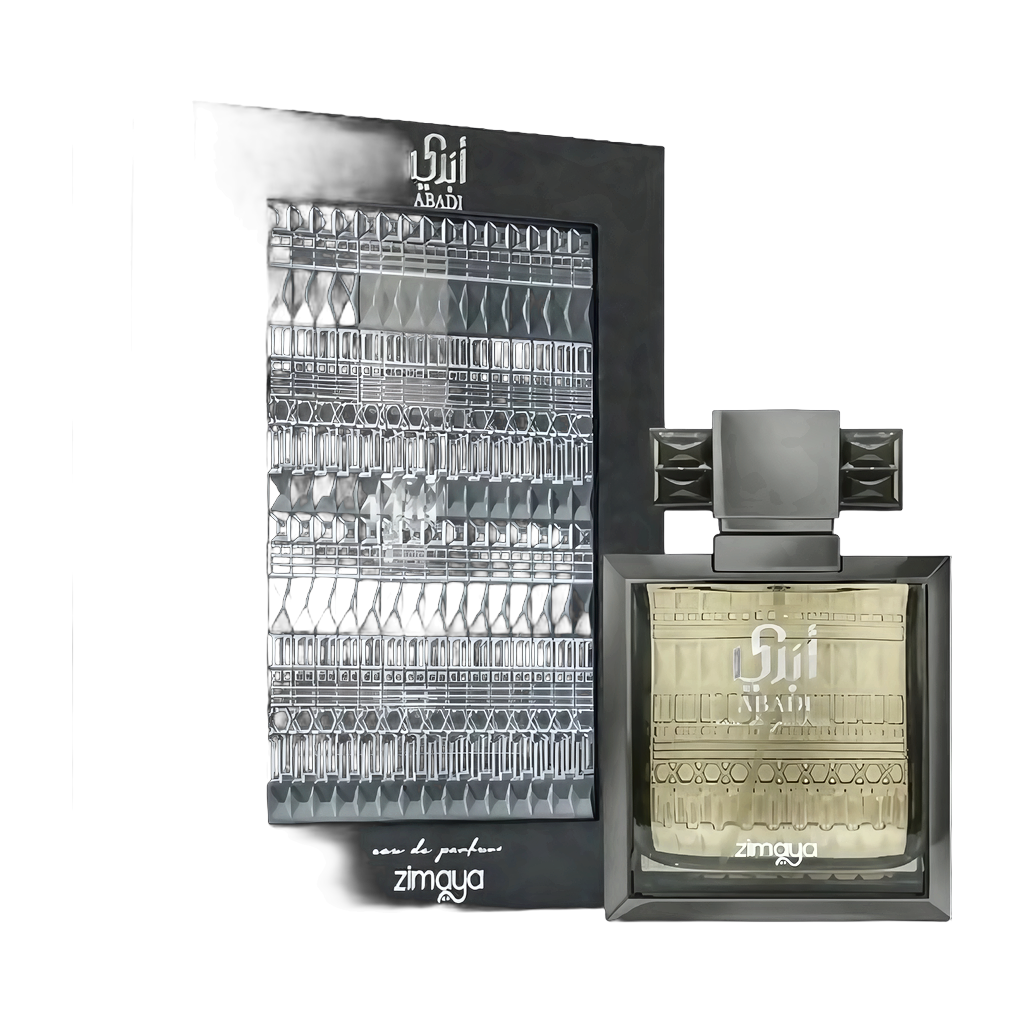
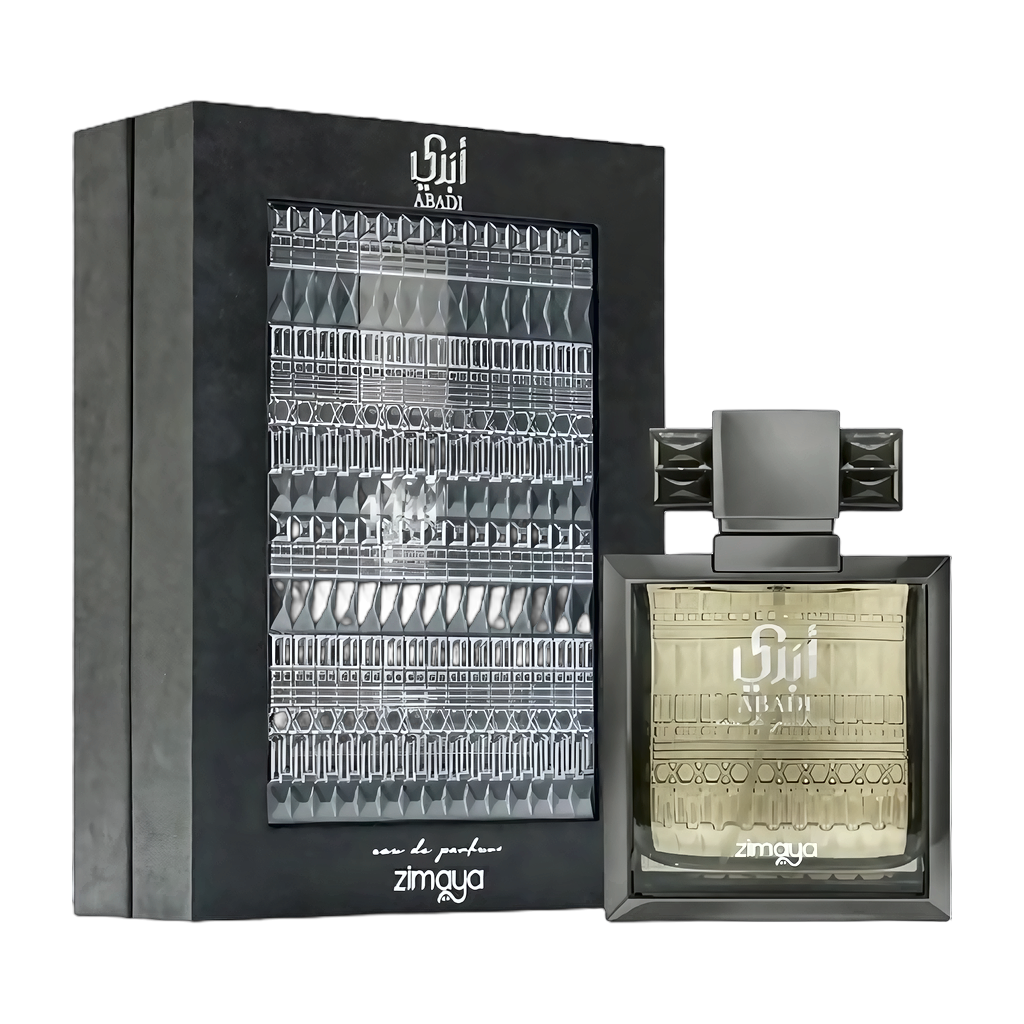
fix(pipeline): prevent missing parts via ground-truth mask ensemble and relaxed component filtering

Changed region(s): [[0.0625, 0.0938, 0.5938, 0.9062], [0.7188, 0.625, 0.75, 0.6562], [0.6562, 0.4688, 0.6875, 0.5]]

diff --git a/Al-Warda/scripts/generate_product_images.py b/Al-Warda/scripts/generate_product_images.py
@@ -461,9 +461,9 @@ def run_onnx_u2net_segmentation(source, session):
     p_min, p_max = pred.min(), pred.max()
     pred = (pred - p_min) / (p_max - p_min + 1e-8)
 
-    # Smooth & crisp contrast curve
+    # Smooth & crisp contrast curve (gentle floor prevents cutting dark packaging, caps, or glass bases)
     mask_full = cv2.resize(pred, (w, h), interpolation=cv2.INTER_CUBIC)
-    alpha = np.clip((mask_full - 0.15) / (0.85 - 0.15), 0.0, 1.0)
+    alpha = np.clip((mask_full - 0.08) / (0.88 - 0.08), 0.0, 1.0)
     alpha_u8 = (alpha * 255.0).astype(np.uint8)
     alpha_u8 = cv2.GaussianBlur(alpha_u8, (3, 3), 0.5)
 
@@ -1513,14 +1513,47 @@ def preserve_original_product(source_bytes, segmentation_session, canvas_size=(1
 
     Returns (png_bytes, processed_size, original_size).
     """
+    import cv2
+    import numpy as np
+
     source = decode_source(source_bytes)
     original_size = source.size
 
-    # If the source photo is low-resolution or compressed, apply AI Super-Resolution first!
-    if allow_upscale and max(original_size) < 1200:
-        source = super_resolve_product_image_if_needed(source)
+    # Step 1: Always segment the authentic photographic input first to establish ground-truth object boundaries.
+    # The neural network sees the genuine photographic distribution, guaranteeing that no parts (dark packaging,
+    # miniature set bottles, translucent glass, or wide boxes) are misclassified as background.
+    raw_cutout = segment_source(source, segmentation_session)
+    raw_alpha = np.array(raw_cutout)[:, :, 3]
 
-    cutout = segment_source(source, segmentation_session)
+    # Step 2: Apply AI Super-Resolution (Vulkan GPU Upscayl / UltraSharp) if resolution is low
+    if allow_upscale and max(original_size) < 1200:
+        sr_source = super_resolve_product_image_if_needed(source)
+        if sr_source.size != source.size:
+            sw, sh = sr_source.size
+            # High-fidelity cubic scaling of the authentic alpha mask
+            raw_alpha_scaled = cv2.resize(raw_alpha, (sw, sh), interpolation=cv2.INTER_CUBIC)
+            raw_alpha_scaled = np.clip(raw_alpha_scaled, 0, 255).astype(np.uint8)
+
+            try:
+                # Also run segmentation on super-resolved source for micro-edge refinement
+                sr_cutout = segment_source(sr_source, segmentation_session)
+                sr_alpha = np.array(sr_cutout)[:, :, 3]
+                # Ensemble: union of raw mask (guarantees NO parts like dark boxes/packaging/caps are ever lost)
+                # and super-resolved mask (captures fine micro-details on high-res facets)
+                final_alpha = np.maximum(raw_alpha_scaled, sr_alpha)
+            except Exception:
+                final_alpha = raw_alpha_scaled
+
+            cutout = sr_source.convert("RGBA")
+            cutout.putalpha(Image.fromarray(final_alpha, mode="L"))
+            processed_size = sr_source.size
+        else:
+            cutout = raw_cutout
+            processed_size = original_size
+    else:
+        cutout = raw_cutout
+        processed_size = original_size
+
     cutout = normalize_flacon_cutout(
         cutout,
         target_max_h=880,
@@ -1612,26 +1645,22 @@ def normalize_flacon_cutout(cutout, target_max_h=880, target_max_w=880, canvas_s
         main_w = stats[main_lbl, cv2.CC_STAT_WIDTH]
         main_cx = centroids[main_lbl][0]
 
-        # Valid components: main body, plus vertically aligned components (cap, sprayer, base)
-        # and side packaging components (boxes, stands). Exclude only tiny detached artifacts far from product.
+        # Valid components: keep main body, plus all genuine product components (boxes, packaging,
+        # caps, sprayers, bases, miniatures, gift sets, charms). Exclude only tiny isolated corner noise artifacts.
         valid_mask = np.zeros_like(mask)
         H, W = mask.shape[:2]
         for lbl in range(1, num_labels):
             area = stats[lbl, cv2.CC_STAT_AREA]
-            cx = centroids[lbl][0]
             x = stats[lbl, cv2.CC_STAT_LEFT]
             y = stats[lbl, cv2.CC_STAT_TOP]
             w = stats[lbl, cv2.CC_STAT_WIDTH]
             h = stats[lbl, cv2.CC_STAT_HEIGHT]
             touches_corner = (x <= 1 or x + w >= W - 1) and (y <= 1 or y + h >= H - 1)
+            is_corner_noise = touches_corner and area < 80
             if lbl == main_lbl:
                 valid_mask[labels == lbl] = 1
-            elif area >= max_area * 0.05:
-                if not (touches_corner and area < max_area * 0.08):
-                    valid_mask[labels == lbl] = 1
-            elif area >= 60 and abs(cx - main_cx) <= max(main_w * 1.5, 300):
-                if not (touches_corner and area < max_area * 0.08):
-                    valid_mask[labels == lbl] = 1
+            elif not is_corner_noise and area >= 40:
+                valid_mask[labels == lbl] = 1
     except Exception:
         # Fallback using scipy.ndimage
         try:
@@ -1641,30 +1670,22 @@ def normalize_flacon_cutout(cutout, target_max_h=880, target_max_w=880, canvas_s
                 valid_mask = mask
             else:
                 areas = [int(np.sum(labeled == i)) for i in range(1, num_features + 1)]
-                max_area = max(areas)
                 main_lbl = 1 + int(np.argmax(areas))
-                ys_m, xs_m = np.where(labeled == main_lbl)
-                main_w = xs_m.max() - xs_m.min() + 1
-                main_cx = float(np.mean(xs_m))
                 valid_mask = np.zeros_like(mask)
                 H, W = mask.shape[:2]
                 for i in range(1, num_features + 1):
                     ys_i, xs_i = np.where(labeled == i)
                     if len(xs_i) == 0:
                         continue
-                    cx_i = float(np.mean(xs_i))
                     area_i = areas[i - 1]
                     x_min, x_max = int(xs_i.min()), int(xs_i.max())
                     y_min, y_max = int(ys_i.min()), int(ys_i.max())
                     touches_corner = (x_min <= 1 or x_max >= W - 1) and (y_min <= 1 or y_max >= H - 1)
+                    is_corner_noise = touches_corner and area_i < 80
                     if i == main_lbl:
                         valid_mask[labeled == i] = 1
-                    elif area_i >= max_area * 0.05:
-                        if not (touches_corner and area_i < max_area * 0.08):
-                            valid_mask[labeled == i] = 1
-                    elif area_i >= 60 and abs(cx_i - main_cx) <= max(main_w * 1.5, 300):
-                        if not (touches_corner and area_i < max_area * 0.08):
-                            valid_mask[labeled == i] = 1
+                    elif not is_corner_noise and area_i >= 40:
+                        valid_mask[labeled == i] = 1
         except Exception:
             valid_mask = (alpha > 25).astype(np.uint8)
 
